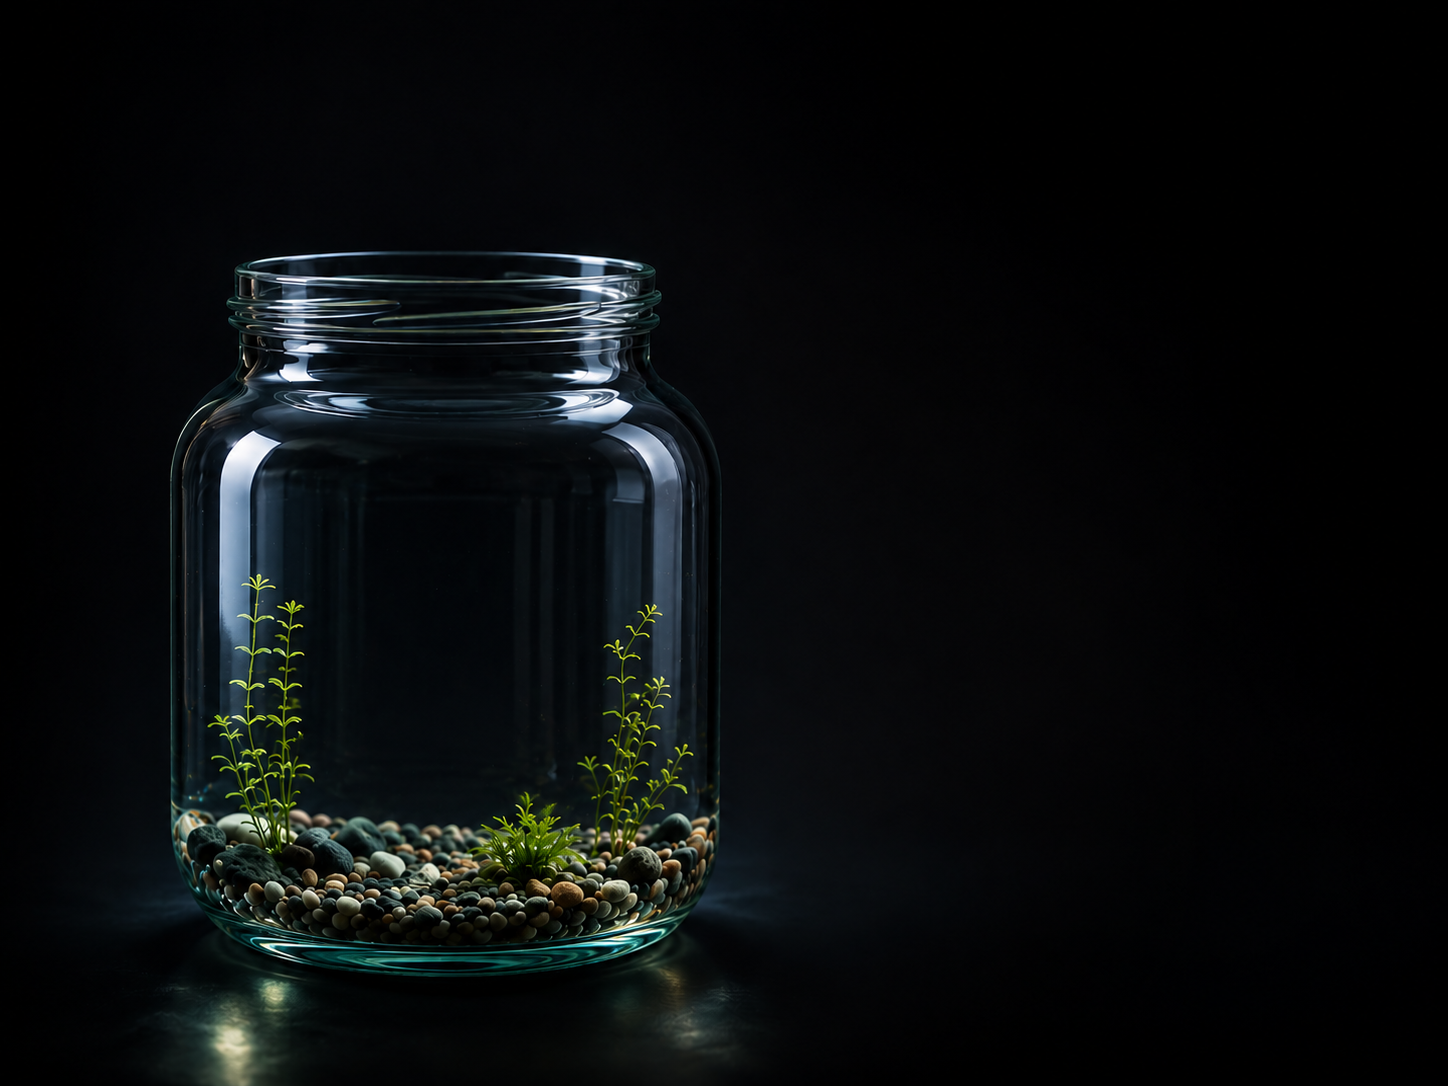
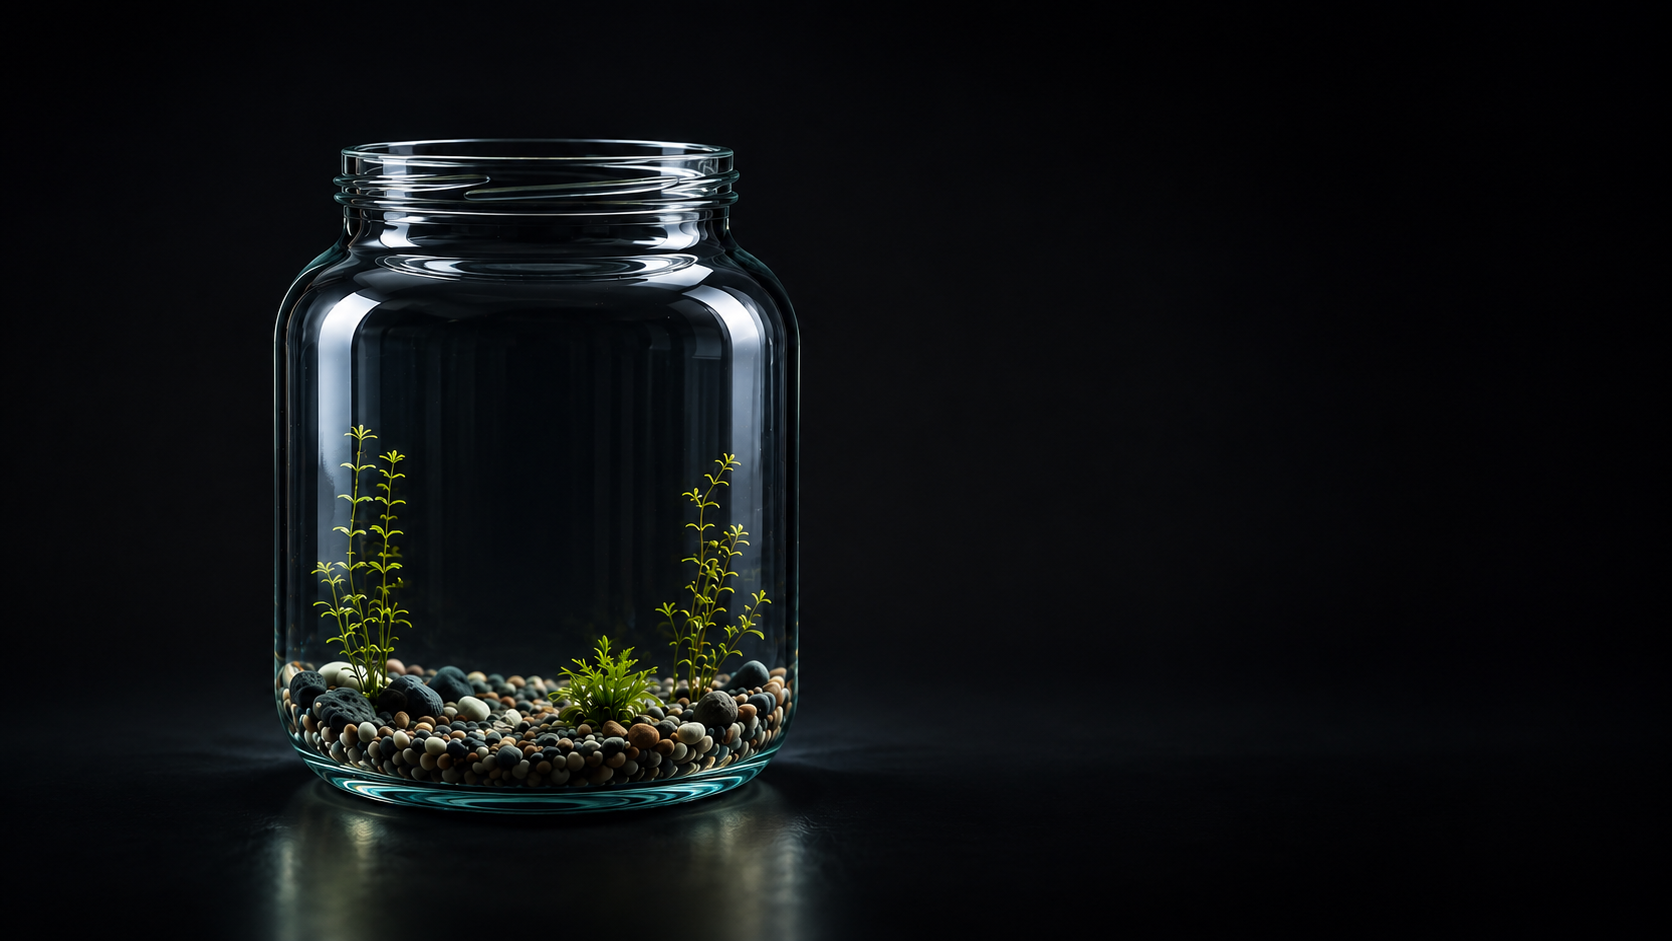
Feat: swap jar to full-bleed 16:9 scene (1672x941) — retune interior/tap coords to new image

Changed region(s): [[0.0932, 0.1233, 0.5283, 1.0]]

diff --git a/src/components/focus-visuals/JarVisual.tsx b/src/components/focus-visuals/JarVisual.tsx
@@ -6,14 +6,14 @@ const JAR_SCENE_URL = '/visuals/jar/jar-scene.png';
 const FISH_URL = '/visuals/jar/fish-01.png';
 const TAP_URL = '/visuals/jar/tap-prompt.png';
 
-const VIEW_W = 1448;
-const VIEW_H = 1086;
+const VIEW_W = 1672;
+const VIEW_H = 941;
 
 const JAR_INTERIOR = {
-  x: 230,
-  width: 440,
-  baseY: 980,
-  topY: 500,
+  x: 350,
+  width: 416,
+  baseY: 680,
+  topY: 220,
 };
 
 const FISH_COUNT = 4;
@@ -25,12 +25,12 @@ const FISH_VARIANTS = [
 ];
 
 const TAP_PLACEMENT = {
-  x: 60,
-  y: 30,
-  w: 360,
-  h: 240,
-  spoutX: 200,
-  spoutY: 290,
+  x: 69,
+  y: 35,
+  w: 416,
+  h: 277,
+  spoutX: 231,
+  spoutY: 335,
 };
 
 function seededUnit(seed: number) {
